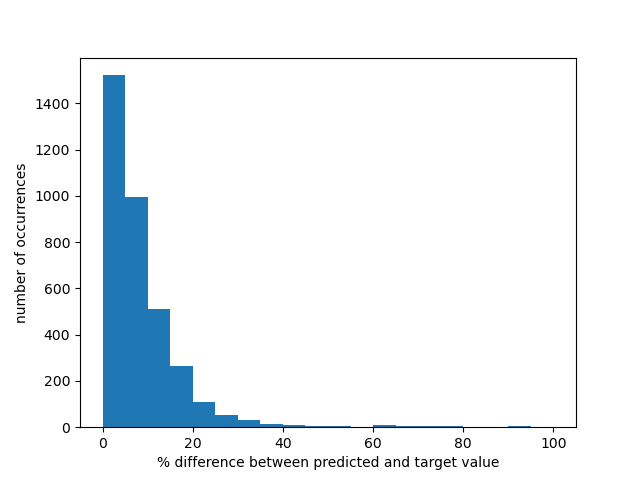
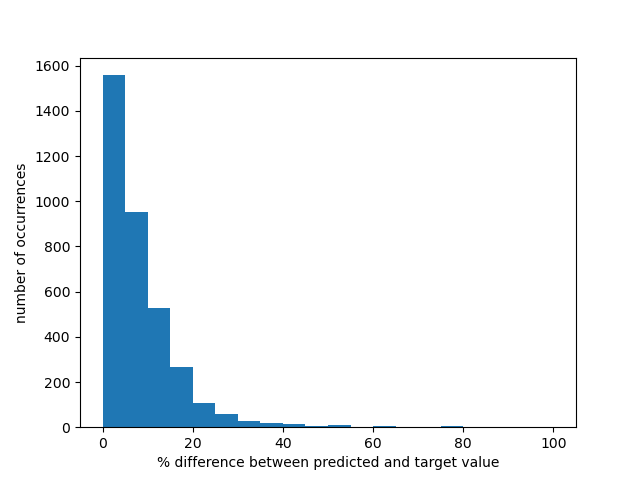
alternate state prediction nn

diff --git a/dynamicspredictstates.py b/dynamicspredictstates.py
@@ -294,9 +294,18 @@ class simdata(Dataset):
         actions = torch.from_numpy(actions)
         actions = actions.type(torch.float64)
         states = torch.from_numpy(states)
+        # we're just gonna use states and name em deltas for now I don't wanna go back and rename everything
         deltas = states[1:, :] - states[:-1, :]
+        statescopy = states[0:-1]
+        # print(states[0:-1])
+        print(statescopy)
+        # print(states[1:, :])
+        # print(states[:-1, :])
 
-        # concat states and deltas
+        deltas = deltas + statescopy
+        print(deltas)
+
+        # concat states and actions
         data = torch.cat((states, actions), dim=1)
         data = data[:-1]
 
@@ -454,7 +463,7 @@ test_legend = mlines.Line2D([], [], color='orange', label='Test Loss')
 plt.plot(train_errors, label="train loss")
 plt.plot(test_errors, color="orange", label="test loss")
 plt.legend(handles=[train_legend, test_legend])
-plt.savefig('dynamicslossgraph.png')
+plt.savefig('dynamicslossgraphstates.png')
 plt.close()
 
 correct = 0
@@ -489,7 +498,7 @@ ax1 = diffFig.add_subplot()
 ax1.hist(diffs, 20, (0, 100))
 ax1.set_xlabel("% difference between predicted and target value")
 ax1.set_ylabel("number of occurrences")
-plt.savefig('diffpercent.png')
+plt.savefig('diffpercentstates.png')
 plt.show()
 
 # true error vs % error
